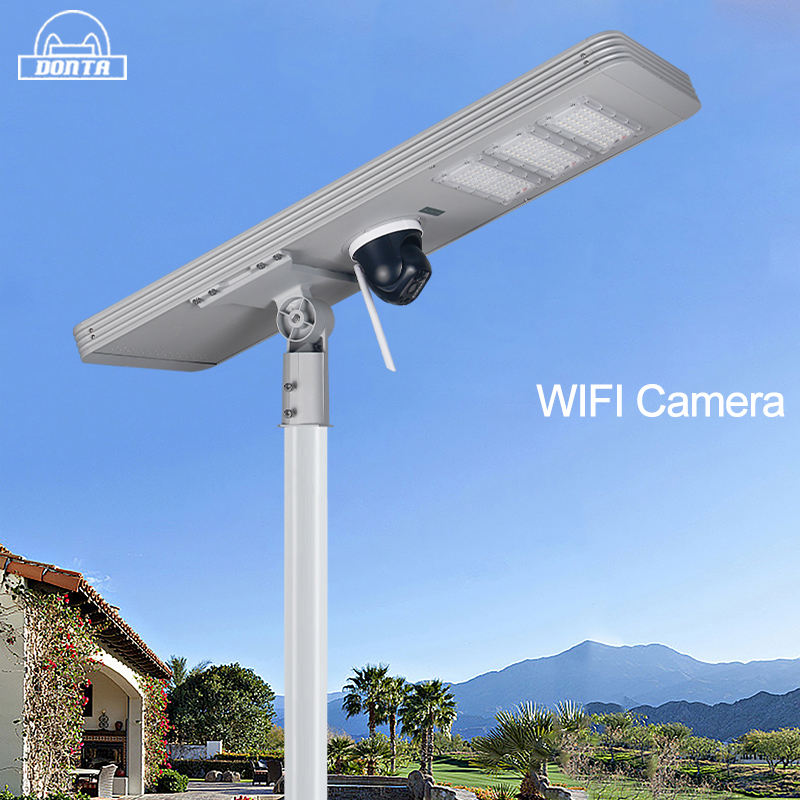
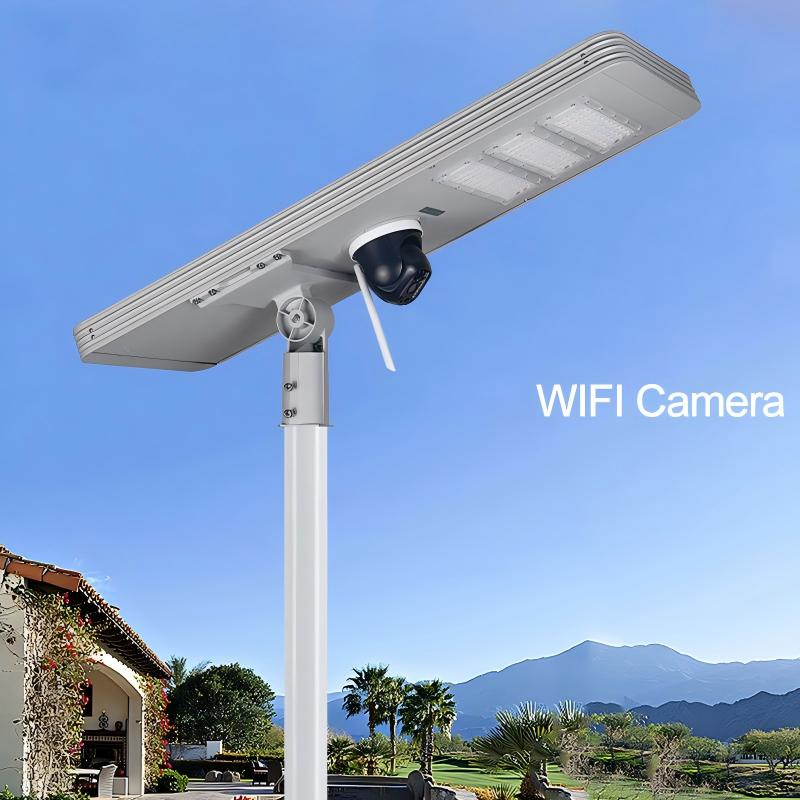
fix: p137.html gallery — populate empty thumbnail carousel with 6 images
p137 (TR348 with camera) had no gallery thumbnails in the HTML.
The products-data.js has 6 gallery images but they're not used in
static page mode — HTML needed hardcoded thumbs.

Added 6 gallery-thumb divs with images from:
TR348 with camera/lb/1-6.jpg

Other products checked: thumbnails are present (2-5 per page),
just not the full set from data. Only p137 had zero.

diff --git a/product/p137.html b/product/p137.html
@@ -181,7 +181,24 @@
                 <div class="gallery-thumbs-wrapper">
                     <button class="thumbs-arrow thumbs-arrow-left" onclick="scrollThumbnails(-1)" aria-label="Scroll thumbnails left">&#8249;</button>
                     <div class="gallery-thumbs" id="galleryThumbs">
-
+                <div class="gallery-thumb active" onclick="switchGalleryImage(0, this)">
+                    <img src="../assets/images/products/TR348 with camera/lb/1.jpg" alt="TR348 with camera All in one solar street light thumbnail 1" loading="lazy" onerror="this.parentElement.style.display='none'">
+                </div>
+                <div class="gallery-thumb" onclick="switchGalleryImage(1, this)">
+                    <img src="../assets/images/products/TR348 with camera/lb/2.jpg" alt="TR348 with camera All in one solar street light thumbnail 2" loading="lazy" onerror="this.parentElement.style.display='none'">
+                </div>
+                <div class="gallery-thumb" onclick="switchGalleryImage(2, this)">
+                    <img src="../assets/images/products/TR348 with camera/lb/3.jpg" alt="TR348 with camera All in one solar street light thumbnail 3" loading="lazy" onerror="this.parentElement.style.display='none'">
+                </div>
+                <div class="gallery-thumb" onclick="switchGalleryImage(3, this)">
+                    <img src="../assets/images/products/TR348 with camera/lb/4.jpg" alt="TR348 with camera All in one solar street light thumbnail 4" loading="lazy" onerror="this.parentElement.style.display='none'">
+                </div>
+                <div class="gallery-thumb" onclick="switchGalleryImage(4, this)">
+                    <img src="../assets/images/products/TR348 with camera/lb/5.jpg" alt="TR348 with camera All in one solar street light thumbnail 5" loading="lazy" onerror="this.parentElement.style.display='none'">
+                </div>
+                <div class="gallery-thumb" onclick="switchGalleryImage(5, this)">
+                    <img src="../assets/images/products/TR348 with camera/lb/6.jpg" alt="TR348 with camera All in one solar street light thumbnail 6" loading="lazy" onerror="this.parentElement.style.display='none'">
+                </div>
                     </div>
                     <button class="thumbs-arrow thumbs-arrow-right" onclick="scrollThumbnails(1)" aria-label="Scroll thumbnails right">&#8250;</button>
                 </div>